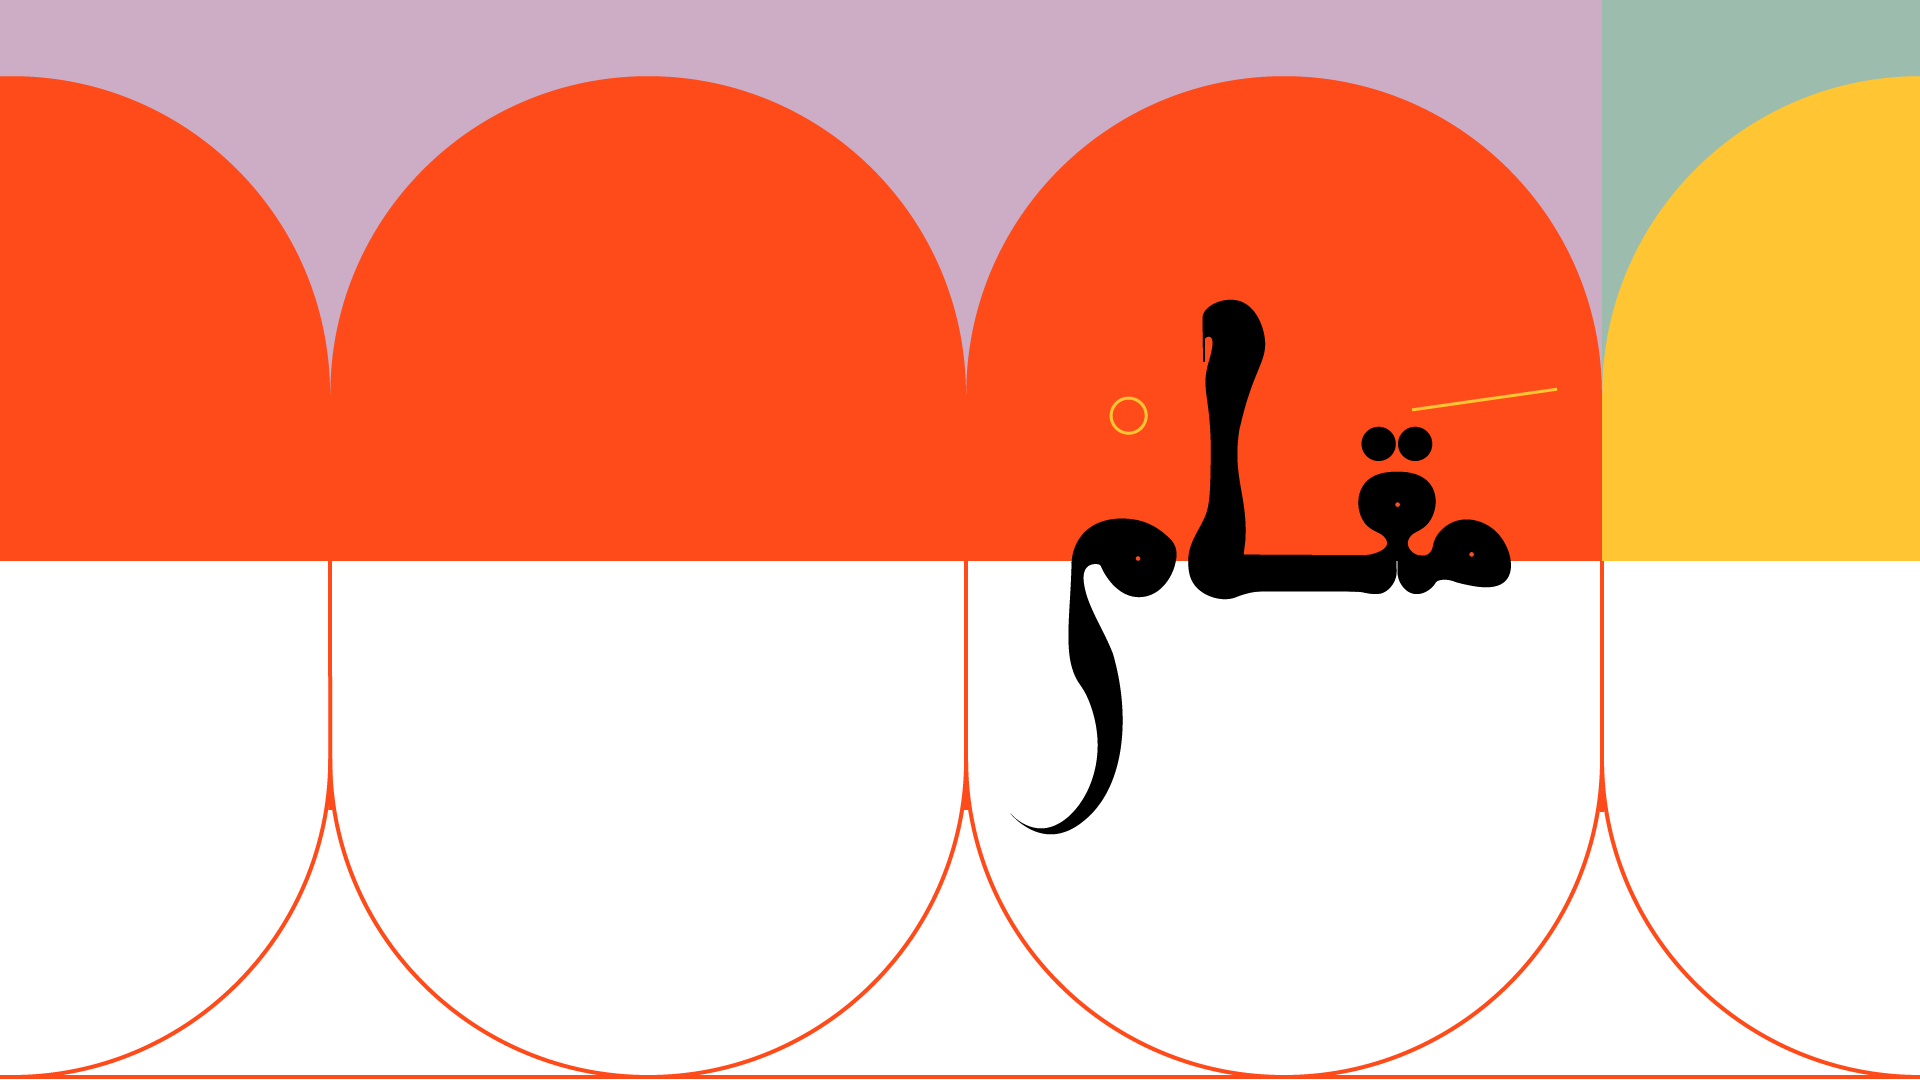
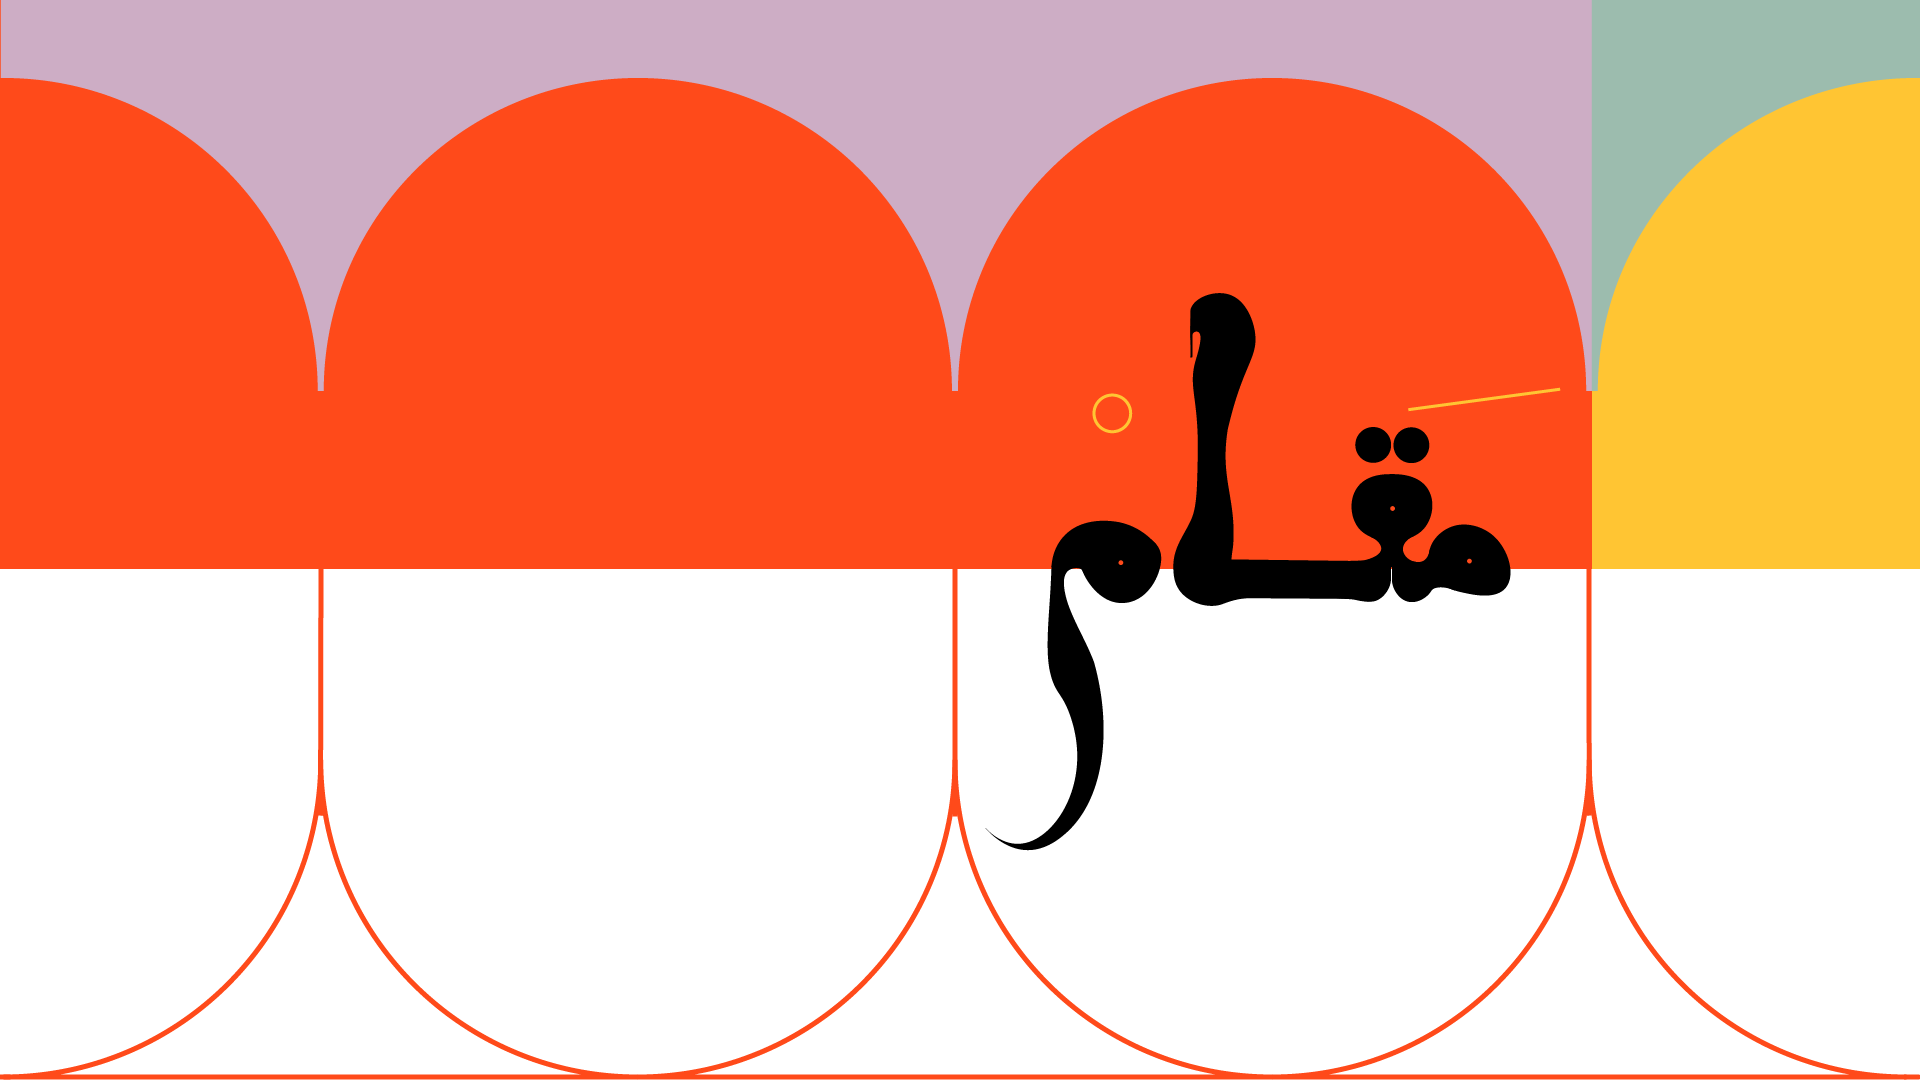
giant-logo2

diff --git a/styles.css b/styles.css
@@ -57,6 +57,33 @@ display: none;
     }
 
 
+    #giant-logo2 {
+	z-index: 100000;
+	position:fixed;
+	top: 0;
+	width: 100%;
+	height: auto;
+	cursor: pointer;
+	display:  none;
+}
+
+/*    	@media screen and (max-width: 1440px) {
+    #giant-logo {
+width: 125%;
+
+    }
+    }*/
+
+        	@media screen and (max-width: 800px) {
+    #giant-logo2 {
+display: block;
+
+    }
+    }
+
+   
+
+
 #color-top {
     position: fixed;
     top: 0px;
@@ -142,13 +169,13 @@ display: none;
             animation-name: fadeOut;
          }
 
-
+/*
     @media screen and (max-width: 800px) {
     .animated {
 display: none;
 
     }
-    }
+    }*/
 
 
 #logo {
@@ -321,6 +348,27 @@ html::-webkit-scrollbar-thumb {
     background: #A741AA;
     border-radius: 0px;
   }
+
+         	@media screen and (max-width: 800px) {
+    html::-webkit-scrollbar {
+display: none;
+
+    }
+    }
+
+             	@media screen and (max-width: 800px) {
+    html::-webkit-scrollbar-track {
+display: none;
+
+    }
+    }
+
+                 	@media screen and (max-width: 800px) {
+    html::-webkit-scrollbar-thumb {
+display: none;
+
+    }
+    }
 
 #small-logo {
 	padding: 15px;

diff --git a/index.html b/index.html
@@ -47,6 +47,26 @@ $("#gray-block").click(function(){
 
 
 
+$("#giant-logo2").click(function(){
+    $("#giant-logo2").hide();
+});
+
+$("#giant-logo2").click(function(){
+    $("#gray-block").hide();
+});
+
+$("#gray-block").click(function(){
+    $("#gray-block").hide();
+});
+
+$("#gray-block").click(function(){
+    $("#giant-logo2").hide();
+});
+
+
+
+
+
 $('#small-logo2').hide();
 $('#pink-square').on('click',
   function() {
@@ -66,6 +86,8 @@ $('#pink-square').on('click',
 	<body class="introduction">
 
 		<div class="giant"><img id="giant-logo" img src="images/artboard.png"></div></div>
+
+		<div class="giant2"><img id="giant-logo2" img src="images/artboard2.png"></div></div>
 
 		<div id="gray-block" class="animated fadeOut"></div>
 
